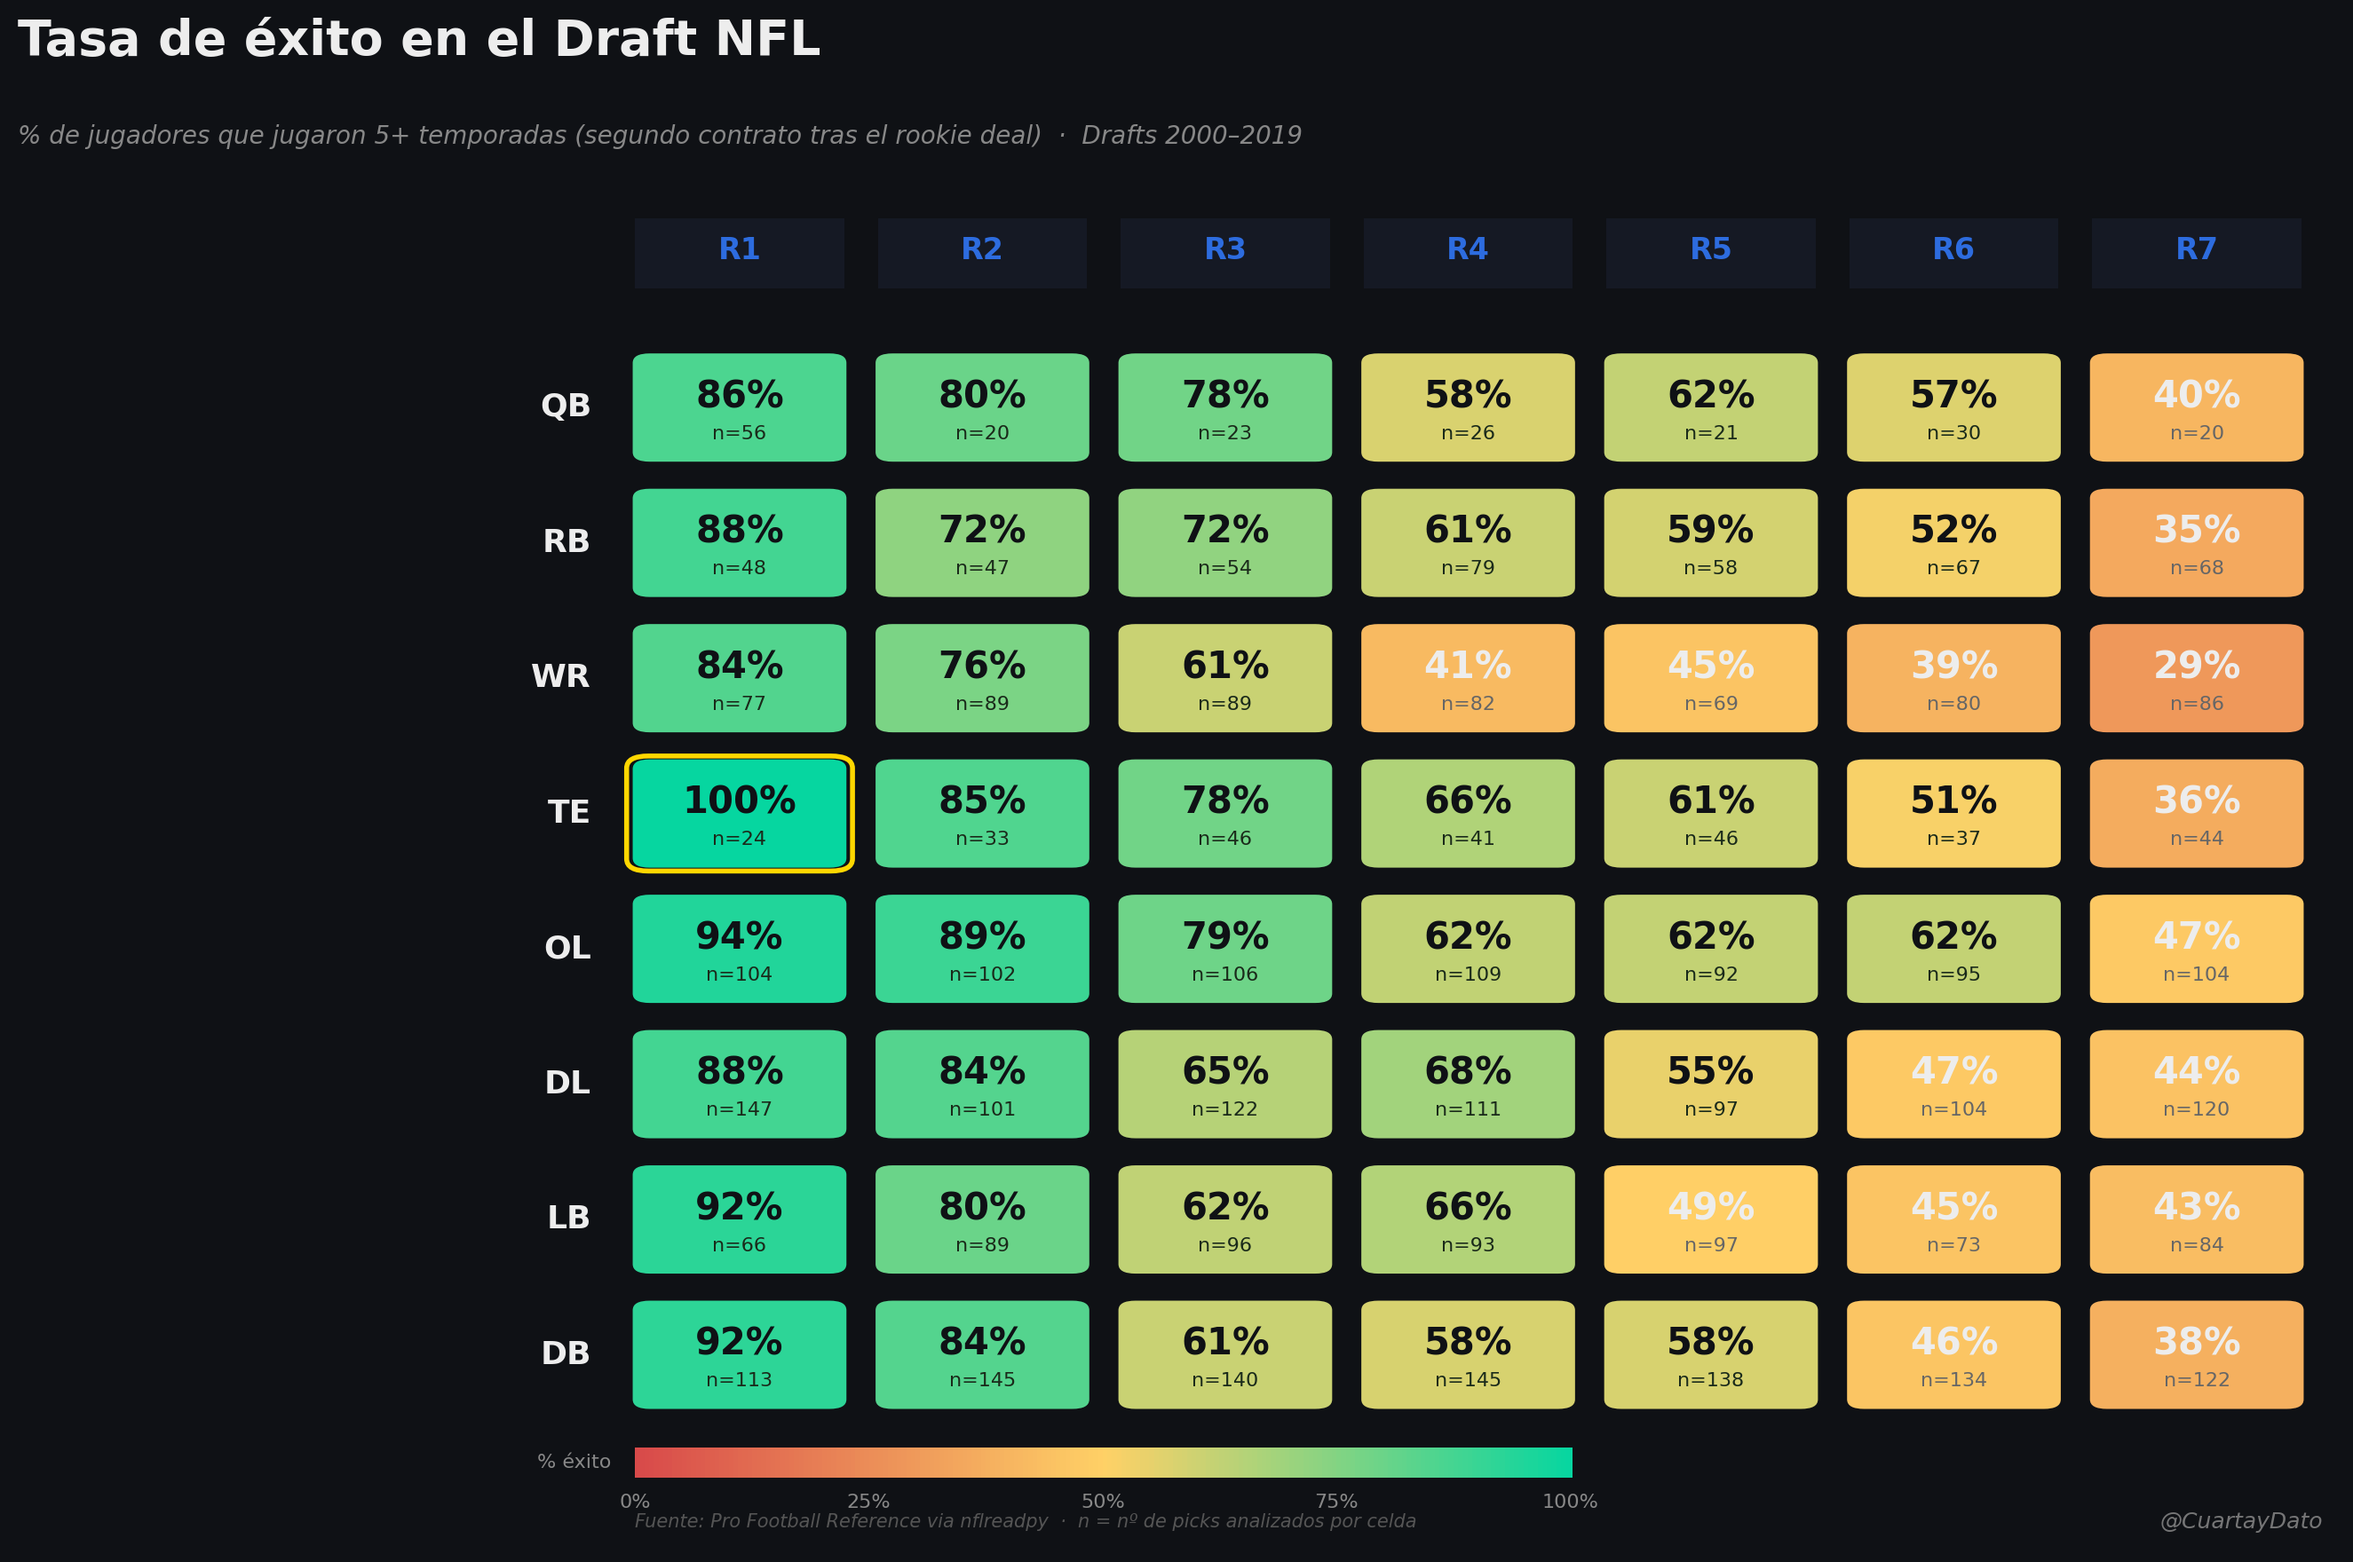
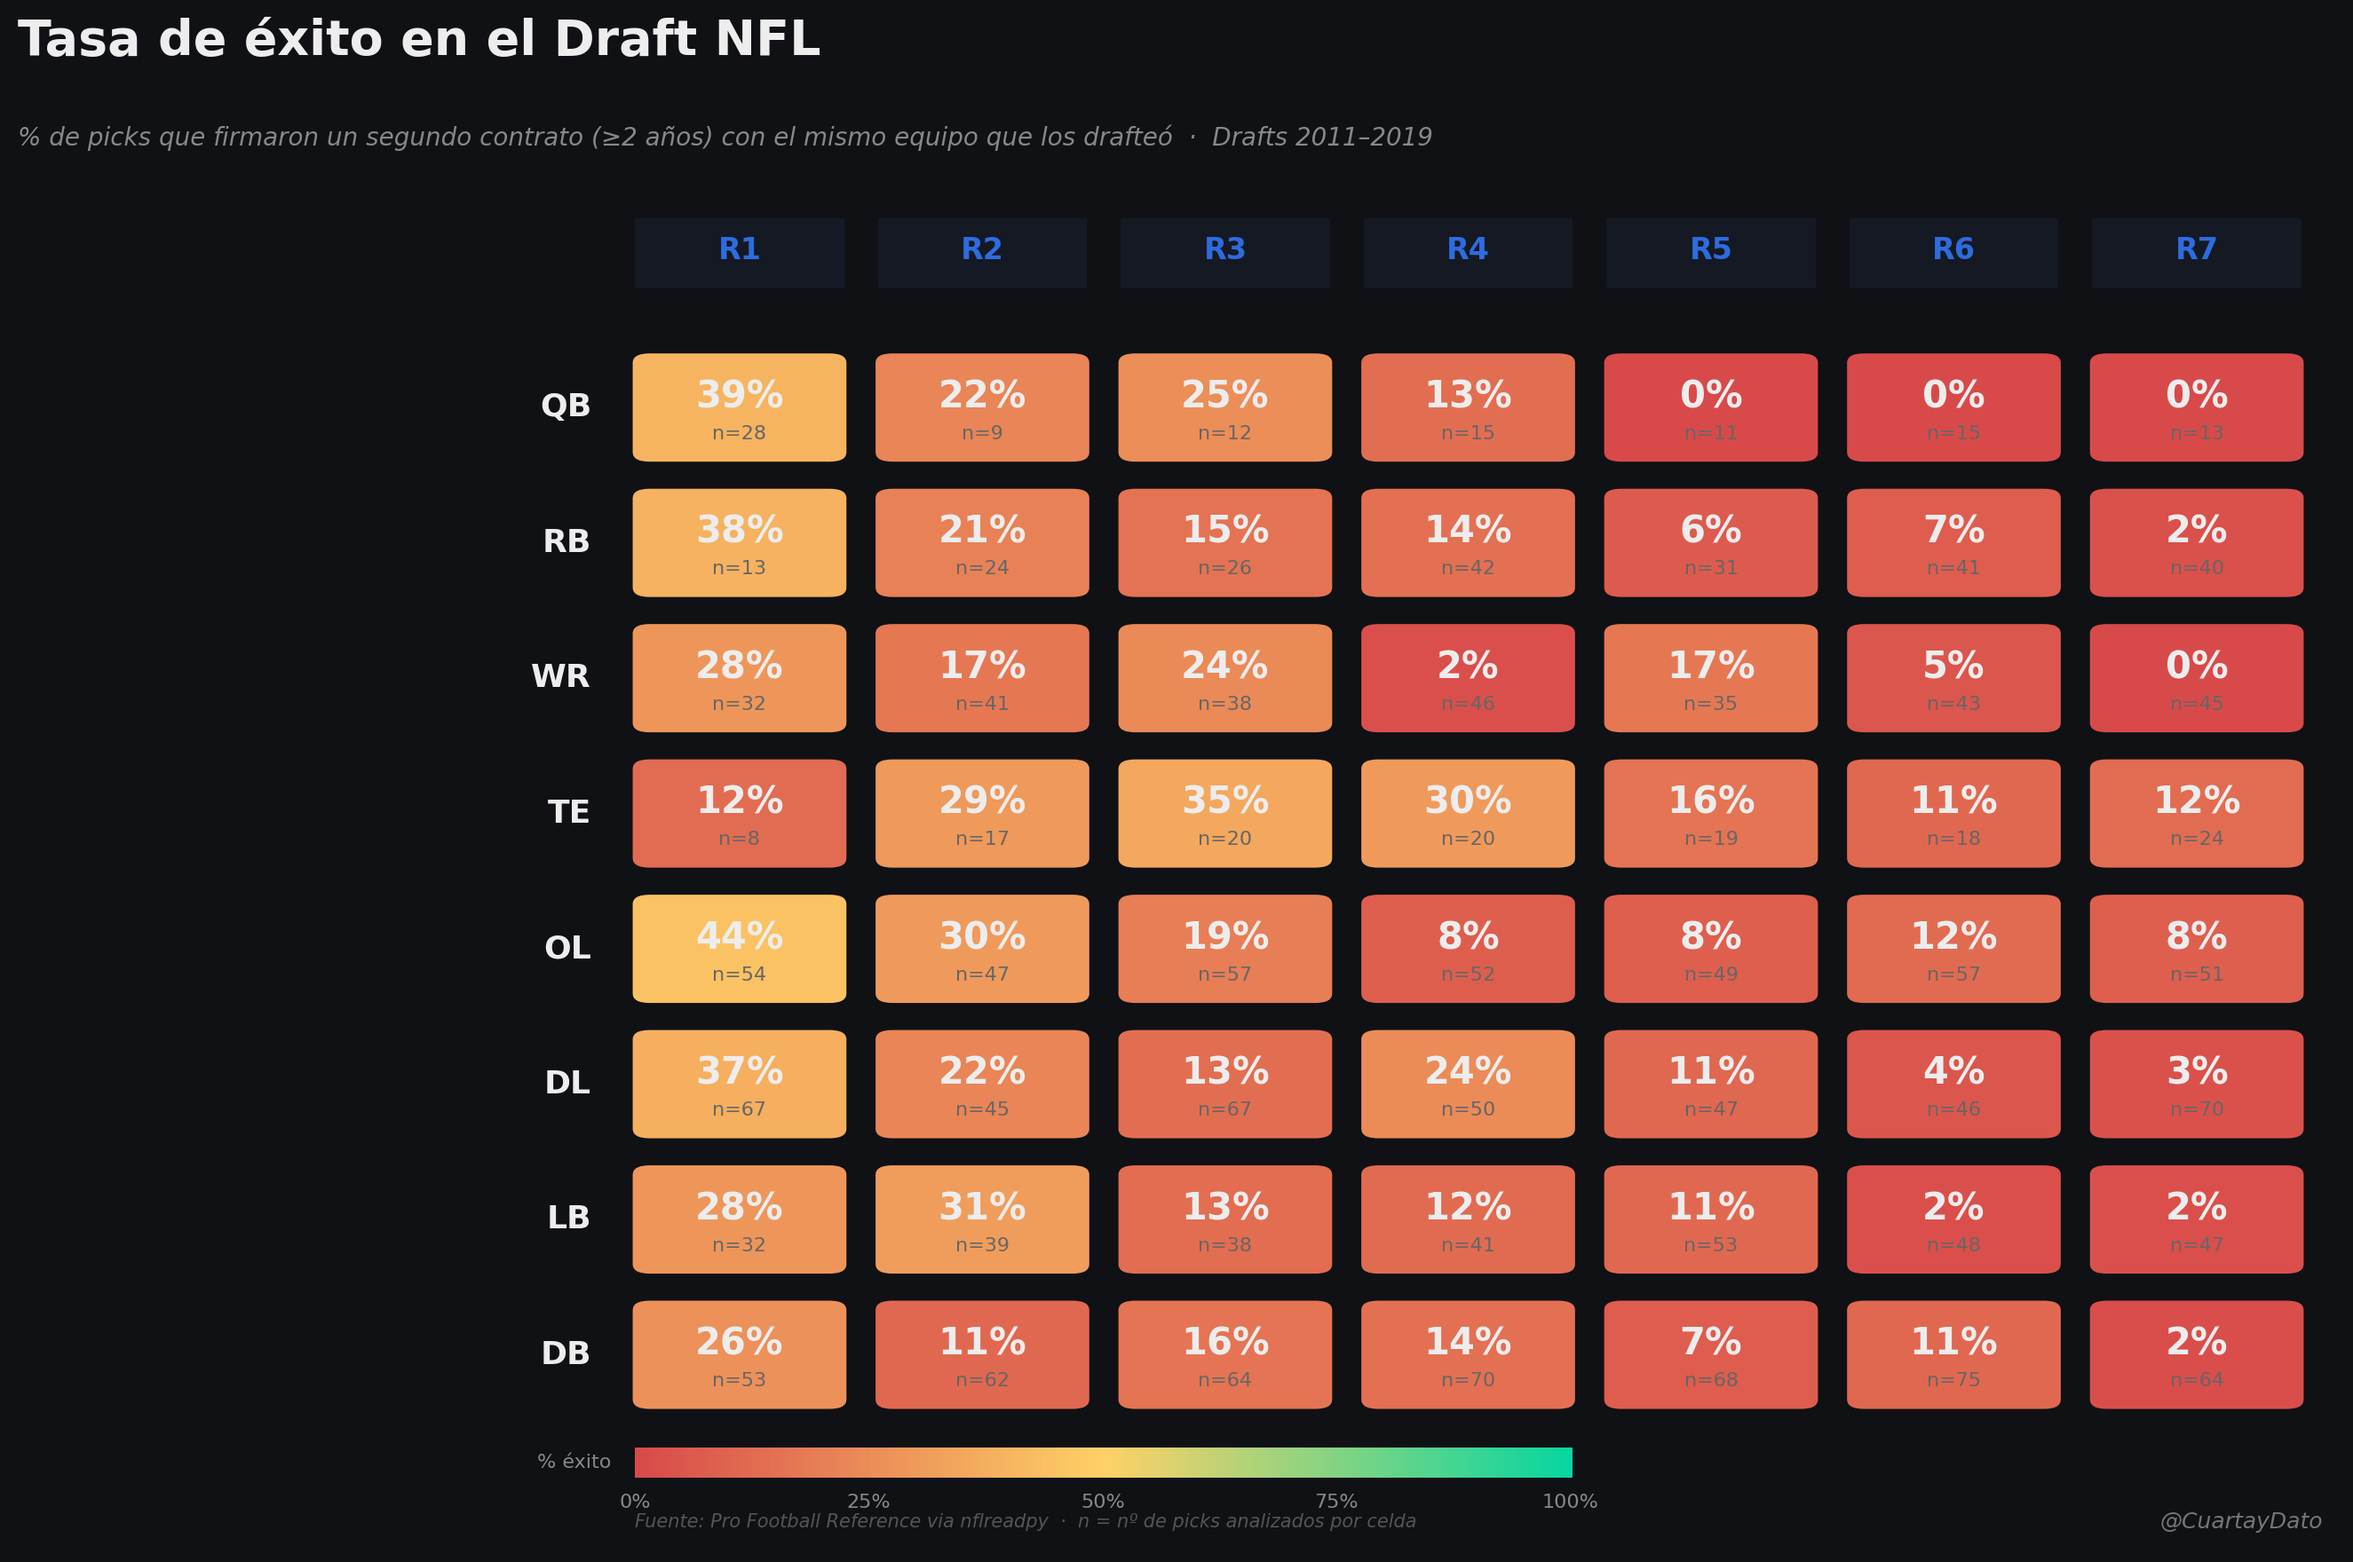
Fix draft success definition: second contract with same drafting team (OTC data, 2011-2019)

diff --git a/draft_success.py b/draft_success.py
@@ -10,7 +10,7 @@ from matplotlib.colors import LinearSegmentedColormap
 import nflreadpy
 
 # === Config ===
-SEASONS   = list(range(2000, 2020))   # 20 años → rookie deals expirados
+SEASONS   = list(range(2011, 2020))   # 2011-2019: cobertura OTC ~98%
 BG        = "#0f1115"
 CARD      = "#151924"
 FG        = "#EDEDED"
@@ -37,24 +37,78 @@ POS_MAP = {
 POS_ORDER  = ["QB", "RB", "WR", "TE", "OL", "DL", "LB", "DB"]
 ROUND_LABELS = ["Ronda 1", "Ronda 2", "Ronda 3", "Ronda 4", "Ronda 5", "Ronda 6", "Ronda 7"]
 
+# Mapa nickname/nombre completo → abreviatura estándar
+# Cubre nombres actuales, históricos y variantes que usa OTC
+NICK_TO_ABBR = {
+    "Cardinals":"ARI","Falcons":"ATL","Ravens":"BAL","Bills":"BUF","Panthers":"CAR",
+    "Bears":"CHI","Bengals":"CIN","Browns":"CLE","Cowboys":"DAL","Broncos":"DEN",
+    "Lions":"DET","Packers":"GB","Texans":"HOU","Colts":"IND","Jaguars":"JAX",
+    "Chiefs":"KC","Rams":"LA","Chargers":"LAC","Raiders":"LV","Dolphins":"MIA",
+    "Vikings":"MIN","Patriots":"NE","Saints":"NO","Giants":"NYG","Jets":"NYJ",
+    "Eagles":"PHI","Steelers":"PIT","Seahawks":"SEA","49ers":"SF",
+    "Buccaneers":"TB","Titans":"TEN","Commanders":"WAS",
+    # Nombres históricos
+    "Redskins":"WAS","Football Team":"WAS","Oilers":"TEN",
+}
+# Abreviaturas legacy → estándar (OAK→LV, SD→LAC, STL→LA, KAN→KC, SFO→SF, GNB→GB, etc.)
+ABBR_NORM = {
+    "OAK":"LV","SD":"LAC","STL":"LA","KAN":"KC","SFO":"SF","GNB":"GB",
+    "TAM":"TB","JAC":"JAX","NOR":"NO","PHO":"ARI","HST":"HOU",
+    "ARI":"ARI","ATL":"ATL","BAL":"BAL","BUF":"BUF","CAR":"CAR",
+    "CHI":"CHI","CIN":"CIN","CLE":"CLE","DAL":"DAL","DEN":"DEN",
+    "DET":"DET","GB":"GB","HOU":"HOU","IND":"IND","JAX":"JAX",
+    "KC":"KC","LA":"LA","LAC":"LAC","LAR":"LA","LV":"LV","MIA":"MIA",
+    "MIN":"MIN","NE":"NE","NO":"NO","NYG":"NYG","NYJ":"NYJ",
+    "PHI":"PHI","PIT":"PIT","SEA":"SEA","SF":"SF","TB":"TB",
+    "TEN":"TEN","WAS":"WAS",
+}
+
+def normalize_team(raw: str) -> str:
+    """Convierte cualquier forma de nombre de equipo a abreviatura estándar."""
+    if not isinstance(raw, str):
+        return None
+    # Tomar sólo el primer equipo si hay varios (ej. "DEN/LAR" → "DEN")
+    base = raw.split("/")[0].strip()
+    # Si ya es una abreviatura conocida
+    if base in ABBR_NORM:
+        return ABBR_NORM[base]
+    # Si es un nombre completo/nickname
+    if base in NICK_TO_ABBR:
+        return NICK_TO_ABBR[base]
+    return None
+
 
 # ─────────────────────────────────────────────
 # 1. Datos
 # ─────────────────────────────────────────────
 def load_data() -> pd.DataFrame:
-    print(f"Cargando draft picks {SEASONS[0]}–{SEASONS[-1]}...")
-    df = nflreadpy.load_draft_picks(seasons=SEASONS).to_pandas()
+    print("Cargando draft picks 2011-2019 (datos de contratos completos)...")
+    draft = nflreadpy.load_draft_picks(seasons=list(range(2011, 2020))).to_pandas()
+    draft["pos_group"] = draft["position"].map(POS_MAP)
+    draft = draft[draft["pos_group"].notna() & draft["gsis_id"].notna()].copy()
+    draft["season"] = draft["season"].astype(int)
+    draft["round"]  = draft["round"].astype(int)
 
-    df["pos_group"] = df["position"].map(POS_MAP)
-    df = df[df["pos_group"].notna() & df["to"].notna() & df["round"].notna()].copy()
-    df["round"] = df["round"].astype(int)
-    df["season"] = df["season"].astype(int)
-    df["to"] = df["to"].astype(int)
+    print("Cargando contratos OTC...")
+    c = nflreadpy.load_contracts().to_pandas()
+    c = c.dropna(subset=["gsis_id","draft_team","team","year_signed","years","draft_year"]).copy()
+    c["year_signed"]  = c["year_signed"].astype(int)
+    c["years"]        = c["years"].astype(float)
+    c["draft_year"]   = c["draft_year"].astype(int)
+    c["team_norm"]    = c["team"].apply(normalize_team)
+    c["dt_norm"]      = c["draft_team"].apply(normalize_team)
 
-    # Éxito = jugó 5+ temporadas → casi seguro obtuvo segundo contrato
-    df["success"] = (df["to"] >= df["season"] + 4).astype(int)
+    # Segundo contrato = mismo equipo que lo drafteó,
+    # firmado 3+ años después del draft, duración ≥ 2 años
+    second = c[
+        c["team_norm"].notna() & c["dt_norm"].notna() &
+        (c["team_norm"] == c["dt_norm"]) &
+        (c["year_signed"] >= c["draft_year"] + 3) &
+        (c["years"] >= 2)
+    ]["gsis_id"].unique()
 
-    return df
+    draft["success"] = draft["gsis_id"].isin(second).astype(int)
+    return draft
 
 
 def compute_heatmap(df: pd.DataFrame):
@@ -98,7 +152,7 @@ def plot_heatmap(rate: pd.DataFrame, count: pd.DataFrame):
              ha="left", va="top",
              fontsize=20, fontweight="bold", color=FG)
     fig.text(0.03, 0.91,
-             "% de jugadores que jugaron 5+ temporadas (segundo contrato tras el rookie deal)  ·  Drafts 2000–2019",
+             "% de picks que firmaron un segundo contrato (≥2 años) con el mismo equipo que los drafteó  ·  Drafts 2011–2019",
              ha="left", va="top",
              fontsize=10, color="#888888", fontstyle="italic")
 
